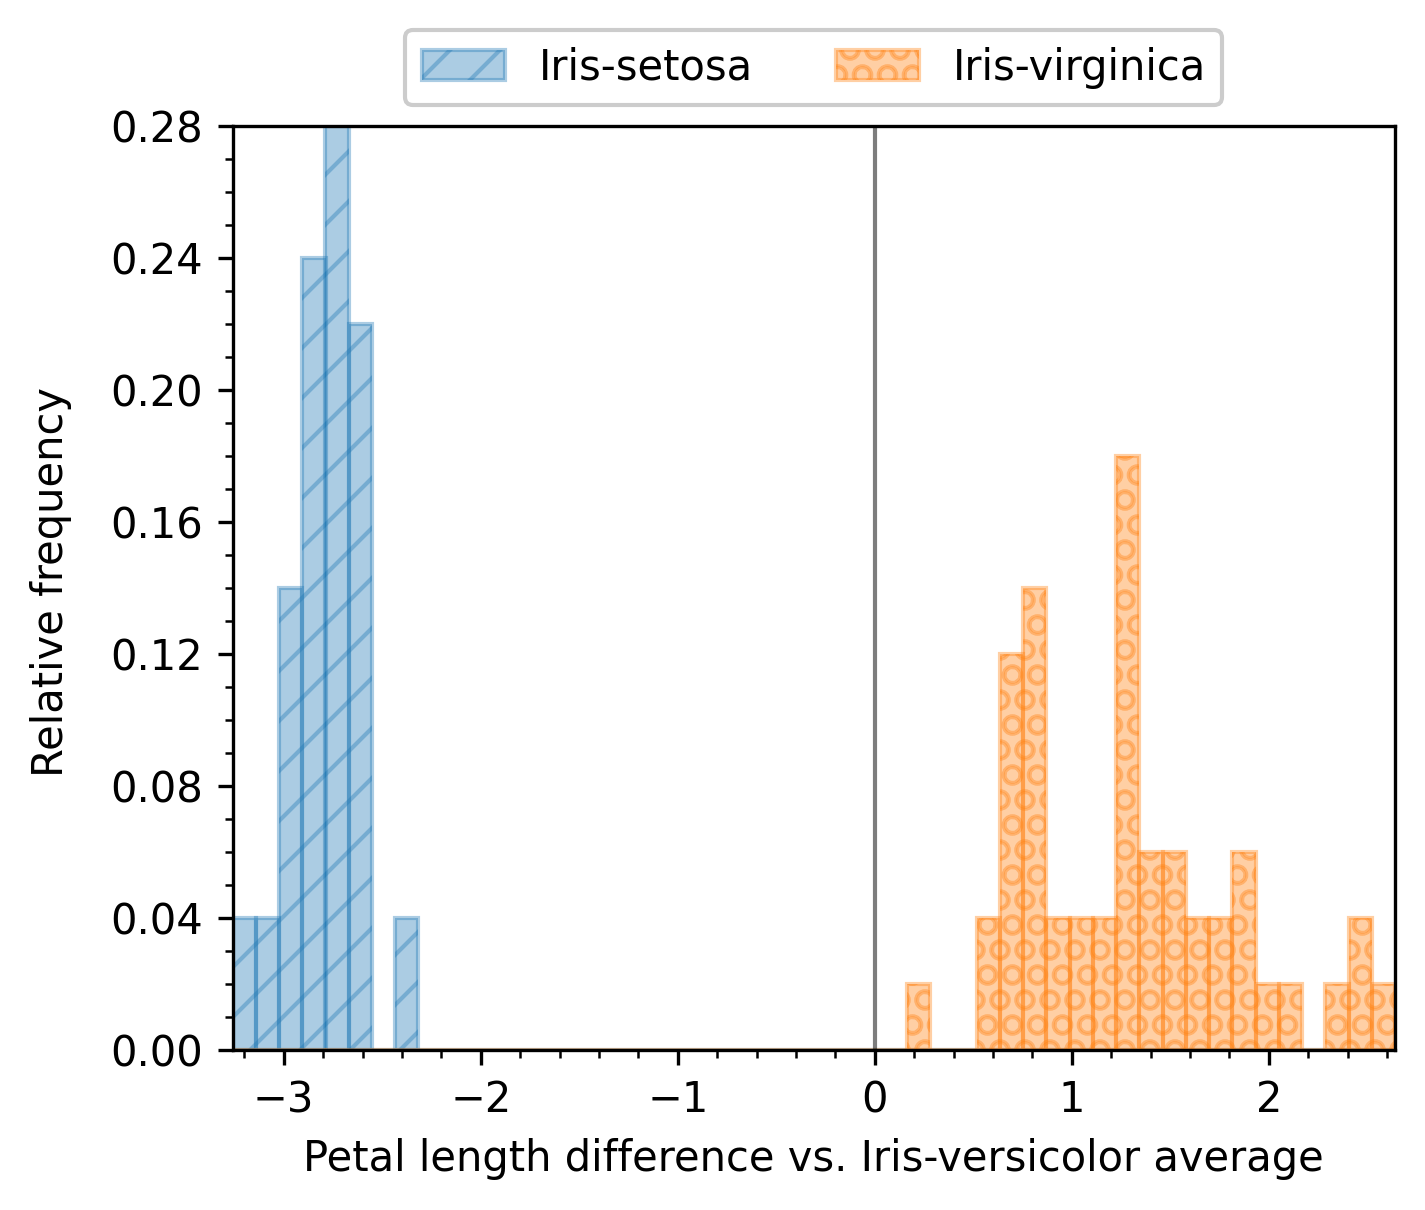
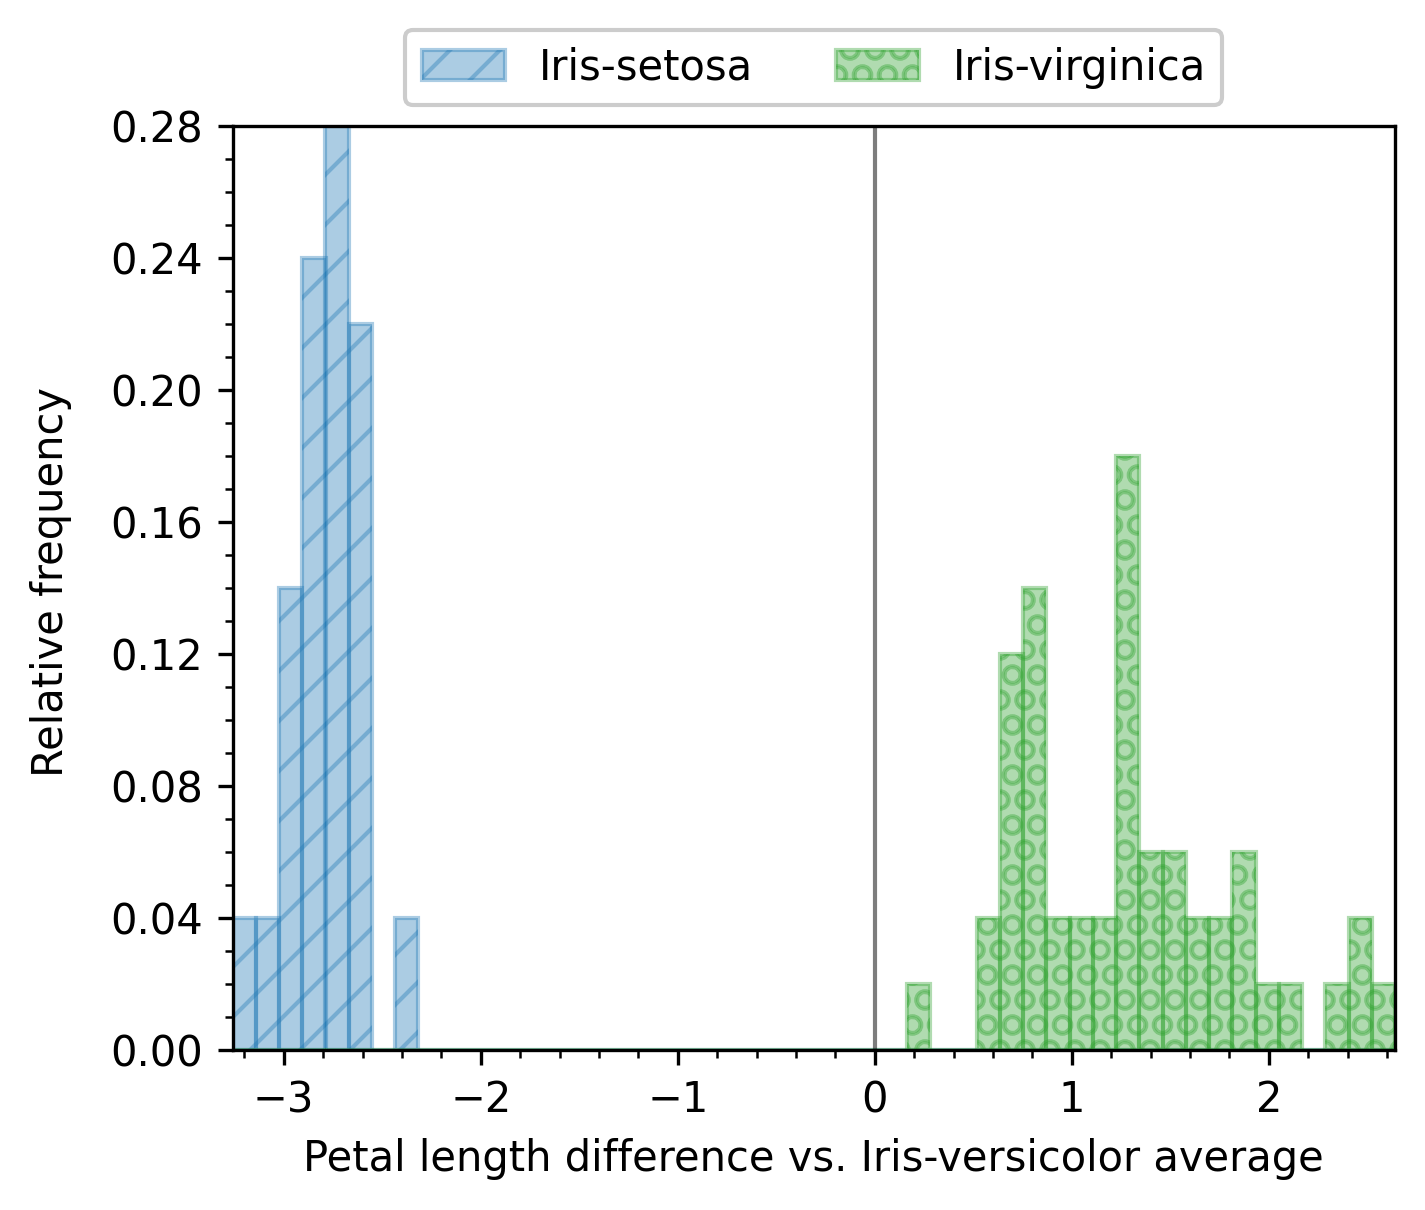
Fixed plot colors when a reference group is selected - now colors are consistent with not showing the group.
Former-commit-id: 9bcd79e01fb25a3904b4486f0201779ba1552a44

Changed region(s): [[0.6175, 0.3669, 0.9881, 0.8868], [0.5867, 0.0306, 0.6484, 0.0917]]

diff --git a/enb/aanalysis.py b/enb/aanalysis.py
@@ -225,10 +225,11 @@ class Analyzer(enb.atable.ATable):
                 if reference_group is not None:
                     if not self.show_reference_group:
                         # Remove the plottable data for the reference group if one is used
-                        filtered_plds = {k: v for k, v in column_kwargs["pds_by_group_name"].items()
-                                         if k != reference_group}
-                        if len(column_kwargs["pds_by_group_name"]) <= len(filtered_plds):
-                            raise ValueError(f"Invalid reference_group {repr(reference_group)} not found.")
+                        # Keep the group itself to maintain the produced colors.
+                        if reference_group not in column_kwargs["pds_by_group_name"]:
+                            raise ValueError(f"Requested reference_group {repr(reference_group)} not found.")
+                        filtered_plds = {k: v if k != reference_group else []
+                                         for k, v in column_kwargs["pds_by_group_name"].items()}
                         column_kwargs["pds_by_group_name"] = filtered_plds
 
                 # All arguments to the parallel rendering function are ready; their associated tasks as created
@@ -948,8 +949,6 @@ class ScalarNumericSummary(AnalyzerSummary):
                 alpha=_self.analyzer.main_alpha,
                 extra_kwargs=dict(
                     width=_self.analyzer.bar_width_fraction * (bin_edges[1] - bin_edges[0]))))
-
-        kwargs
 
         row[_column_name].append(plotdata.ScatterData(
             x_values=[row[f"{column_name}_avg"]],

diff --git a/enb/plotdata.py b/enb/plotdata.py
@@ -584,7 +584,11 @@ def render_plds_by_group(pds_by_group_name, output_plot_path, column_properties,
             for i, g in enumerate(sorted_group_names):
                 if show_legend:
                     if (i == 0 and g.lower() != "all") or len(sorted_group_names) > 1:
-                        pds_by_group_name[g][0].label = g
+                        try:
+                            pds_by_group_name[g][0].label = g
+                        except IndexError:
+                            # Ignore empty groups
+                            continue
                 for pld in pds_by_group_name[g]:
                     pld.marker = marker_cycle[i]
 
